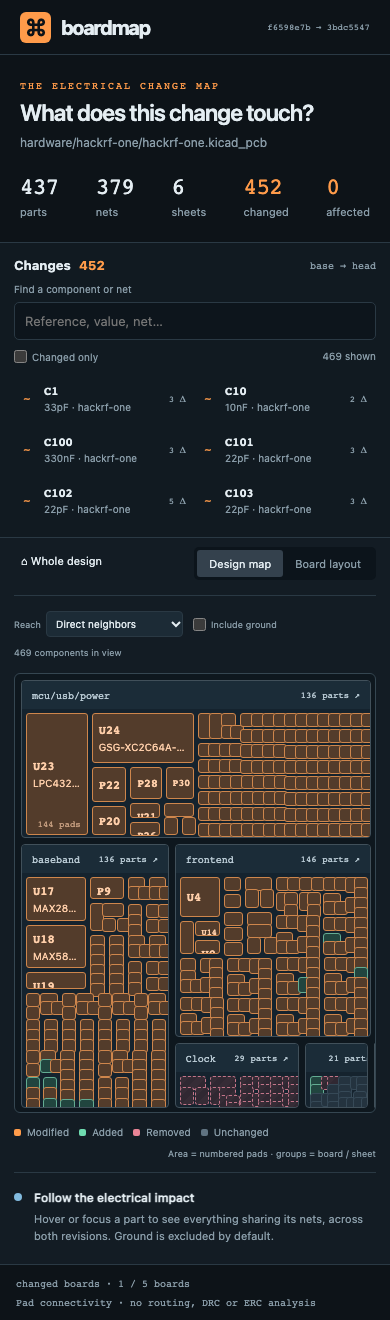
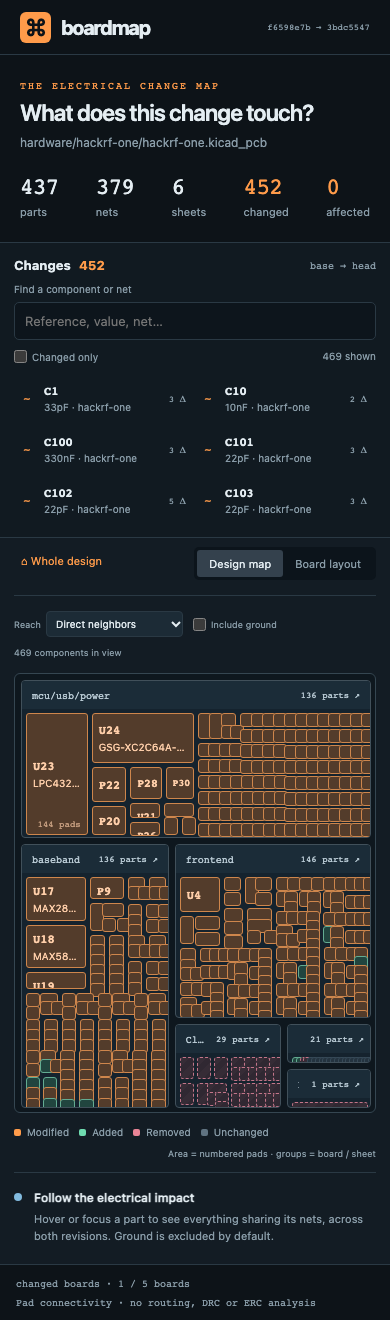
Keep small sheets accessible and let every board open in layout view

Changed region(s): [[0.4615, 0.6523, 0.9538, 0.8386], [0.1846, 0.4038, 0.2462, 0.4348], [0.0923, 0.4038, 0.1538, 0.4348]]

diff --git a/web/style.css b/web/style.css
@@ -1,1 +1,3 @@
 :root{color-scheme:dark;--bg:#0d1318;--panel:#131c24;--tile:#24333f;--text:#e4edf2;--muted:#8a9da9;--border:#2a3944;--orange:#ff9b4a;--green:#6fdbb0;--red:#e98496;--blue:#82bbdf;font-family:-apple-system,BlinkMacSystemFont,"Segoe UI",sans-serif;font-size:13px}*{box-sizing:border-box}body{margin:0;background:var(--bg);color:var(--text)}button,input,select{font:inherit}button{cursor:pointer;color:inherit;background:none;border:0}a{color:inherit;text-decoration:none}button:focus-visible,a:focus-visible,input:focus-visible,select:focus-visible{outline:2px solid var(--blue);outline-offset:3px}header{height:68px;padding:0 32px;border-bottom:1px solid var(--border);display:flex;align-items:center;gap:32px}.brand{font-size:23px;font-weight:720;letter-spacing:-1px;display:flex;align-items:center;gap:10px}.brand-mark{display:inline-grid;place-items:center;background:var(--orange);color:var(--bg);width:31px;height:31px;font-size:24px;border-radius:6px}.edition{font-size:9px;letter-spacing:1.4px;color:var(--muted);font-weight:600;margin-left:9px}.mono{font-family:ui-monospace,SFMono-Regular,Consolas,monospace}#revision{color:var(--muted);font-size:11px;margin-left:auto}.offline{color:var(--green);font-size:11px}.overview{display:flex;align-items:center;justify-content:space-between;padding:27px 32px 28px;gap:24px}.eyebrow{font:10px ui-monospace,SFMono-Regular,monospace;color:var(--orange);letter-spacing:2px}h1{font-size:29px;letter-spacing:-.8px;margin:8px 0 9px;font-weight:600}.overview p{color:var(--muted);margin:0;font-size:12px;overflow-wrap:anywhere}#stats{display:flex;gap:30px}#stats strong{display:block;font:29px ui-monospace,SFMono-Regular,monospace;letter-spacing:-1px}#stats span{display:block;font-size:11px;color:var(--muted);margin-top:5px}#stats .accent strong{color:var(--orange)}.workspace{display:grid;grid-template-columns:260px minmax(0,1fr);border-block:1px solid var(--border);min-height:610px}aside{border-right:1px solid var(--border);background:#111a21;padding:20px 15px 0;display:flex;flex-direction:column;min-height:0}.aside-heading{display:flex;justify-content:space-between;align-items:center;margin-bottom:18px}.aside-heading h2{font-size:13px;margin:0}.aside-heading h2 span{color:var(--orange);margin-left:5px}.aside-heading>span{font-size:10px;color:var(--muted)}.search-label{font-size:10px;color:var(--muted);margin-bottom:7px}input[type=search]{width:100%;border:1px solid var(--border);border-radius:5px;background:#0d151c;color:var(--text);padding:10px}.filters{display:flex;justify-content:space-between;font-size:10px;color:var(--muted);margin:14px 0}.filters label,.map-settings label{display:flex;align-items:center;gap:5px}input[type=checkbox]{accent-color:var(--orange);margin:0}#part-list{overflow-y:auto;max-height:425px;flex:1;min-height:190px}.part-row{width:100%;text-align:left;display:flex;align-items:center;gap:9px;border-radius:4px;padding:10px 8px;border:1px solid transparent}.part-row:hover,.part-row:focus-visible,.part-row.selected{background:#25313b;border-color:#48545e}.status-mark{font:13px ui-monospace,monospace;width:12px;color:var(--orange)}.part-row.added .status-mark{color:var(--green)}.part-row.removed .status-mark{color:var(--red)}.part-row.removed strong{text-decoration:line-through}.part-meta{display:flex;flex-direction:column;gap:3px;min-width:0}.part-meta strong{font:12px ui-monospace,monospace;font-weight:650}.part-meta small{font-size:10px;white-space:nowrap;overflow:hidden;text-overflow:ellipsis;color:var(--muted);max-width:153px}.change-fields{font:9px ui-monospace,monospace;color:var(--muted);margin-left:auto}.aside-foot{margin-top:auto;padding:17px 0;color:var(--muted);line-height:1.8;font-size:10px;border-top:1px solid var(--border)}main{min-width:0;padding:0 24px;background:var(--panel)}.toolbar{min-height:58px;display:flex;align-items:center;justify-content:space-between;gap:10px;border-bottom:1px solid var(--border)}#breadcrumbs{display:flex;align-items:center;flex-wrap:wrap;gap:4px;color:var(--muted);font-size:11px}#breadcrumbs button{padding:7px;color:var(--text);max-width:230px;overflow:hidden;text-overflow:ellipsis;white-space:nowrap}#breadcrumbs button:hover{color:var(--orange)}.view-tabs{display:flex;background:#0c141b;padding:3px;border-radius:5px;flex-shrink:0}.view-tabs button{font-size:11px;color:var(--muted);padding:7px 12px;border-radius:3px}.view-tabs button.active{background:#34414d;color:var(--text)}.map-settings{display:flex;align-items:center;gap:20px;padding:15px 0;font-size:10px;color:var(--muted)}select{background:#1c2b36;border:1px solid var(--border);border-radius:4px;padding:5px;color:var(--text);font-size:10px}#scope-count{margin-left:auto}#canvas{position:relative;height:430px;border:1px solid #354651;border-radius:6px;overflow:hidden;background:#0e171e}#tiles,#connections{position:absolute;inset:0;width:100%;height:100%}#connections{pointer-events:none;z-index:3;overflow:visible}.group{position:absolute;border:1px solid #41505a;background:#15232e;border-radius:4px;overflow:hidden}.group-title{position:absolute;left:0;top:0;width:100%;height:28px;text-align:left;padding:0 10px;font:10px ui-monospace,monospace;color:#bacbd5;display:flex;align-items:center;justify-content:space-between;gap:12px;background:#1b2c38;z-index:2}.group-title span:first-child{overflow:hidden;text-overflow:ellipsis;white-space:nowrap}.group-title:hover{color:var(--orange);background:#29404f}.group-title small{font:9px ui-monospace,monospace;white-space:nowrap}.tile{position:absolute;background:var(--tile);border:1px solid #364957;border-radius:3px;overflow:hidden;text-align:left;padding:6px;color:#9eafb9;transition:opacity .12s,background .12s}.tile.modified{background:#533c2b;border-color:#ce864c;color:#ffcfaa}.tile.added{background:#21453f;border-color:#63ac92;color:#a6e8d1}.tile.removed{background:repeating-linear-gradient(135deg,#362c36,#362c36 6px,#302832 6px,#302832 12px);border:1px dashed #c27589;color:#e5a7b7}.tile.removed .ref{text-decoration:line-through}.tile .ref{display:block;font:600 12px ui-monospace,SFMono-Regular,monospace;white-space:nowrap}.tile .value{display:block;font-size:10px;margin-top:4px;white-space:nowrap;overflow:hidden;text-overflow:ellipsis}.tile .pin-count{position:absolute;bottom:5px;right:6px;font:9px ui-monospace,monospace;opacity:.65}.tile.hovered{background:#b26531!important;border:2px solid #ffbb7b;color:#fff;z-index:2;box-shadow:0 0 18px #ff9b4a30}.tile.affected{background:#2d4b62;border-color:var(--blue);color:#d6ebfa}.tile.dimmed{opacity:.27}.legend{display:flex;align-items:center;gap:16px;font-size:10px;color:var(--muted);padding:13px 0;flex-wrap:wrap}.legend>span{display:flex;align-items:center;gap:6px}.legend i{display:block;width:7px;height:7px;border-radius:2px}.legend .modified{background:var(--orange)}.legend .added{background:var(--green)}.legend .removed{background:var(--red)}.legend .unchanged{background:#607381}.legend-note{margin-left:auto;font-size:9px}#impact{display:flex;gap:12px;padding:16px 0 20px;border-top:1px solid var(--border);min-height:76px}.impact-dot{width:8px;height:8px;border-radius:50%;background:var(--blue);margin-top:4px;flex-shrink:0}#impact strong{font-size:12px;font-weight:550}#impact p{margin:6px 0 0;color:var(--muted);font-size:11px;line-height:1.5;overflow-wrap:anywhere}footer{display:flex;justify-content:space-between;gap:20px;padding:14px 32px;color:var(--muted);font:10px ui-monospace,monospace}.diff-header{display:flex;align-items:center;justify-content:space-between;padding:22px 0}.diff-header h2{font:25px ui-monospace,monospace;margin:0}.diff-header small{color:var(--orange);font:11px ui-monospace,monospace;margin-left:12px}.close-diff{background:#2b3b48;border:1px solid #4a5e6c;padding:8px 12px;border-radius:4px}.diff-subtitle{color:var(--muted);font-size:11px;margin:0 0 18px;overflow-wrap:anywhere}.regions{display:grid;grid-template-columns:1fr 1fr;gap:14px}.region{margin:0;background:#0e171e;border:1px solid var(--border);border-radius:5px;overflow:hidden}.region figcaption{padding:10px 12px;border-bottom:1px solid var(--border);font:10px ui-monospace,monospace;color:var(--muted)}.region svg{display:block;width:100%;height:180px}.semantic{width:100%;border-collapse:collapse;font-size:11px;margin:20px 0}.semantic th{text-align:left;color:var(--muted);font-weight:400;font-size:10px}.semantic td,.semantic th{border-bottom:1px solid var(--border);padding:10px 8px;vertical-align:top;overflow-wrap:anywhere;max-width:300px}.semantic td:nth-child(2){color:#e9a3b2;background:#e9849607}.semantic td:nth-child(3){color:#a2e3ca;background:#6fdbb007}.semantic code{white-space:pre-wrap;font:10px ui-monospace,monospace}.empty{padding:30px 12px;color:var(--muted);font-size:12px}#map-empty{position:absolute;top:45%;width:100%;text-align:center;color:var(--muted)}[hidden]{display:none!important}.board-dot{border-radius:3px}.board-dot .ref{font-size:9px}.board-note{position:absolute;bottom:6px;left:10px;font-size:9px;color:var(--muted);pointer-events:none}@media(min-width:1700px){#canvas{height:540px}#part-list{max-height:535px}}@media(max-width:1000px){.overview{align-items:flex-start}#stats{gap:16px}#stats strong{font-size:23px}.edition{display:none}.workspace{grid-template-columns:215px minmax(0,1fr)}main{padding:0 14px}.map-settings{gap:10px;flex-wrap:wrap}.legend-note{display:none}.part-meta small{max-width:120px}header{padding:0 20px}h1{font-size:23px}.overview{padding:24px 20px}.offline{display:none}}@media(max-width:700px){.overview{display:block}#stats{justify-content:space-between;margin-top:24px}.workspace{display:flex;flex-direction:column}aside{border-right:0;border-bottom:1px solid var(--border);padding:14px}#part-list{max-height:150px;min-height:0;display:grid;grid-template-columns:1fr 1fr}.aside-foot{display:none}.aside-heading{margin-bottom:10px}.filters{margin:10px 0}.toolbar{align-items:flex-start;padding:9px 0;flex-wrap:wrap}.map-settings{font-size:9px}#scope-count{width:100%;margin:0}#canvas{height:440px}.legend{gap:10px}header{gap:10px;height:55px}.brand{font-size:20px}#revision{font-size:9px}.regions{grid-template-columns:1fr}.semantic td,.semantic th{padding:8px 4px;font-size:10px}footer{padding:12px 16px;flex-direction:column;gap:7px}.part-meta small{max-width:115px}}@media(prefers-reduced-motion:reduce){*{transition:none!important;scroll-behavior:auto!important}}
+
+.board-chooser{padding:24px;color:var(--muted)}.board-chooser button{display:block;text-align:left;overflow-wrap:anywhere;border:1px solid var(--border);border-radius:5px;padding:13px;margin:10px 0;color:var(--text);background:var(--tile)}.board-chooser button:hover{border-color:var(--orange)}

diff --git a/web/app.js b/web/app.js
@@ -20,7 +20,7 @@ function breadcrumb() {
     if (state.scope.sheet) { nav.append(el('span','/')); nav.append(el('span',state.scope.sheet)); }
   }
 }
-function setScope(scope) { state.scope=scope; state.selected=null; $('diff-panel').hidden=true; $('map-panel').hidden=false; breadcrumb(); renderMap(); resetImpact(); }
+function setScope(scope) { state.scope=scope; state.selected=null; $('diff-panel').hidden=true; $('map-panel').hidden=false; breadcrumb(); renderMap(); resetImpact(); if (!matchMedia('(prefers-reduced-motion: reduce)').matches) $('tiles').animate([{opacity:.4,transform:'scale(.98)'},{opacity:1,transform:'scale(1)'}],{duration:180,easing:'ease-out'}); }
 function renderList() {
   const list=$('part-list'); list.replaceChildren();
   const shown = report.parts.filter(p=>matches(p) && (!$('only-changed').checked || p.status!=='unchanged'));
@@ -41,18 +41,20 @@ function wirePart(node,p) {
   node.onclick=()=>openDiff(p);
 }
 // Balanced binary treemap. Split by cumulative pad count along the longer axis.
-function pack(items,rect,visit) {
+function pack(items,rect,visit,minSize=0) {
   if (!items.length) return;
   if (items.length===1) { visit(items[0],rect); return; }
   const total=items.reduce((s,p)=>s+p.weight,0); let sum=0,cut=0;
   while (cut<items.length-1 && (sum===0 || sum+items[cut].weight<=total/2)) sum+=items[cut++].weight;
-  const ratio=sum/total;
+  const axis=rect.w>=rect.h?rect.w:rect.h;
+  const floor=Math.min(minSize,axis/2);
+  const ratio=Math.max(floor/axis,Math.min(1-floor/axis,sum/total));
   if (rect.w>=rect.h) {
-    pack(items.slice(0,cut),{...rect,w:rect.w*ratio},visit);
-    pack(items.slice(cut),{...rect,x:rect.x+rect.w*ratio,w:rect.w*(1-ratio)},visit);
+    pack(items.slice(0,cut),{...rect,w:rect.w*ratio},visit,minSize);
+    pack(items.slice(cut),{...rect,x:rect.x+rect.w*ratio,w:rect.w*(1-ratio)},visit,minSize);
   } else {
-    pack(items.slice(0,cut),{...rect,h:rect.h*ratio},visit);
-    pack(items.slice(cut),{...rect,y:rect.y+rect.h*ratio,h:rect.h*(1-ratio)},visit);
+    pack(items.slice(0,cut),{...rect,h:rect.h*ratio},visit,minSize);
+    pack(items.slice(cut),{...rect,y:rect.y+rect.h*ratio,h:rect.h*(1-ratio)},visit,minSize);
   }
 }
 function position(node,r,gap=2) { Object.assign(node.style,{left:`${r.x+gap}px`,top:`${r.y+gap}px`,width:`${Math.max(1,r.w-gap*2)}px`,height:`${Math.max(1,r.h-gap*2)}px`}); }
@@ -97,12 +99,17 @@ function renderMap() {
     const inner={x:2,y:30,w:Math.max(1,r.w-10),h:Math.max(1,r.h-38)};
     pack(group.ps.map(p=>({p,weight:weight(p)})).sort((a,b)=>b.weight-a.weight),inner,(item,box)=>tile(item.p,box,node));
     root.append(node);
-  });
+  },90);
 }
 function renderBoard(shown,w,h) {
   const files=[...new Set(shown.map(p=>p.file))];
   if (files.length>1) {
-    const message=el('button','Choose a board to view its physical layout.','empty'); message.onclick=()=>setScope({file:files[0]}); $('tiles').append(message);
+    const chooser=el('div',undefined,'board-chooser');
+    chooser.append(el('p','Choose a board to view its physical layout.'));
+    for (const file of files) {
+      const button=el('button',file); button.onclick=()=>setScope({file}); chooser.append(button);
+    }
+    $('tiles').append(chooser);
     return;
   }
   const xs=shown.map(p=>p.x),ys=shown.map(p=>p.y),minX=Math.min(...xs),minY=Math.min(...ys),maxX=Math.max(...xs),maxY=Math.max(...ys);
